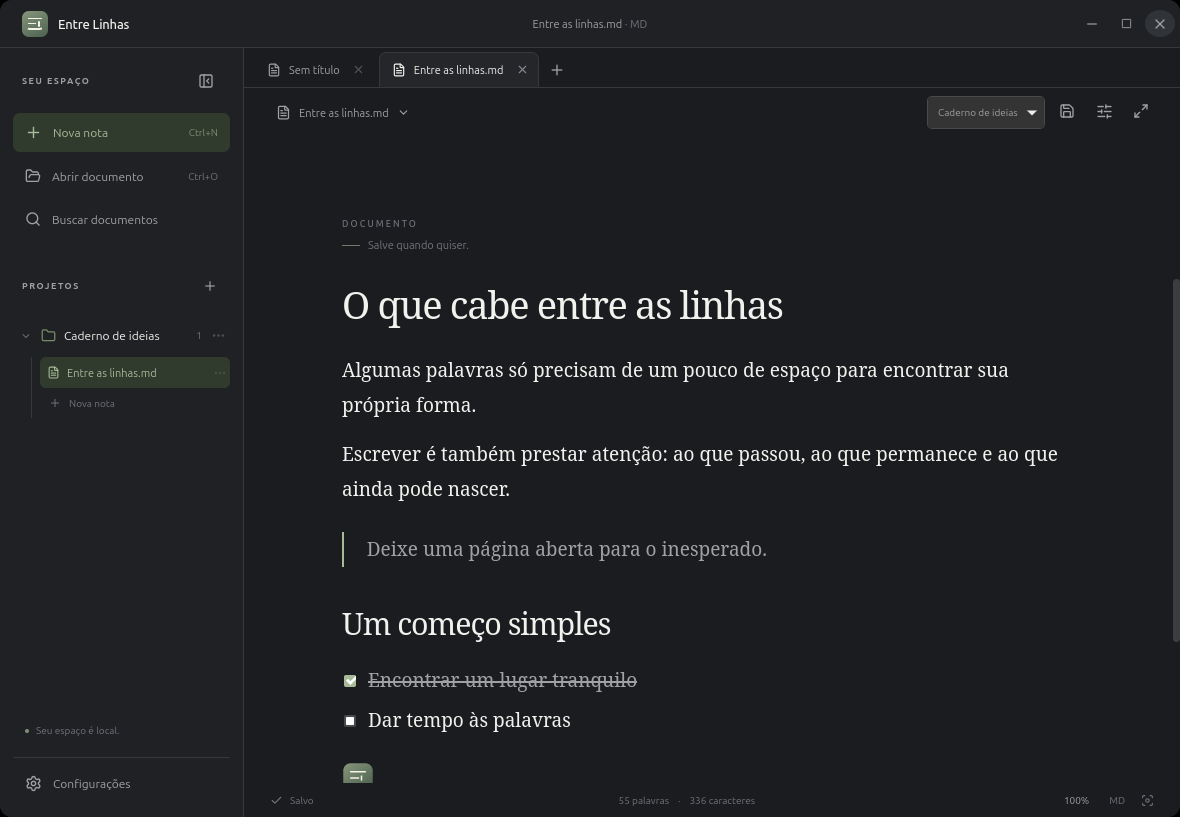
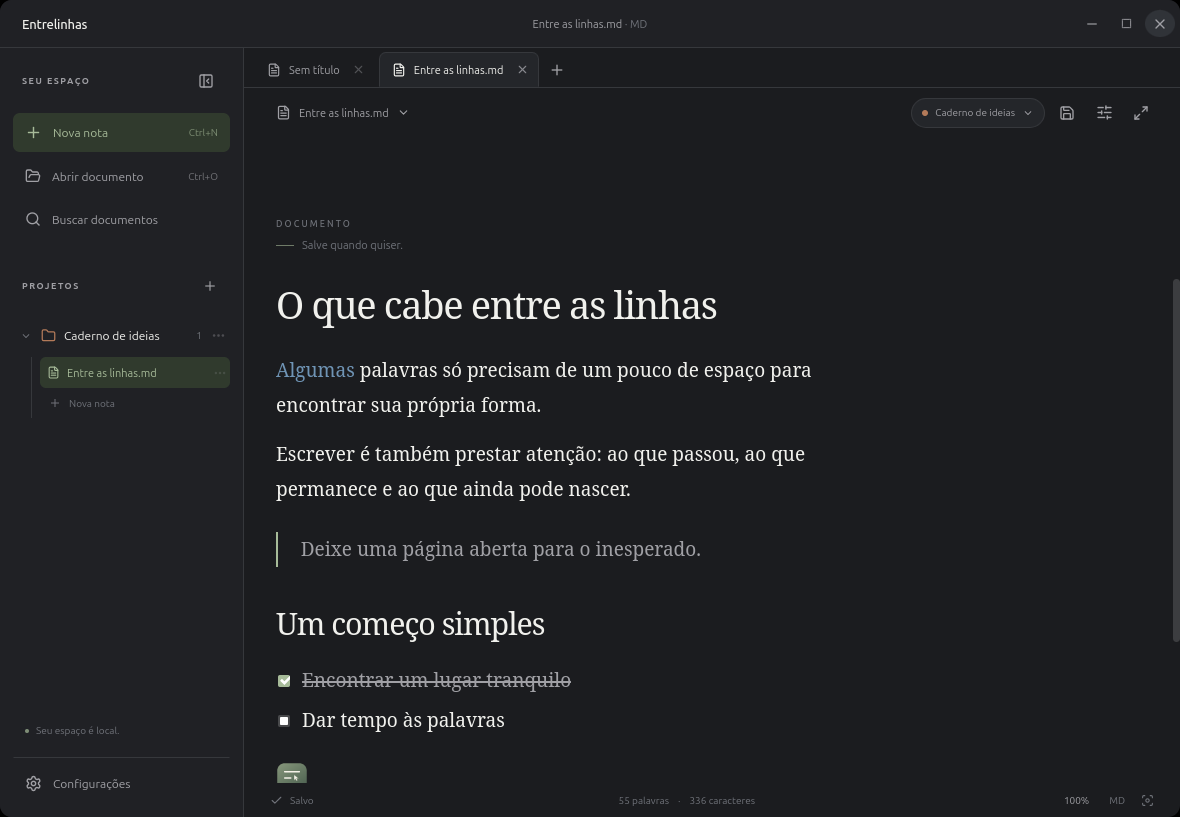
u13 - versão 0.2.0

diff --git a/src/components/Settings.tsx b/src/components/Settings.tsx
@@ -1,3 +1,4 @@
+import { version } from '../../package.json'
 import { useState } from 'react'
 import {
   Paintbrush,
@@ -103,6 +104,10 @@ export function Settings({
                   <option value="right">Lateral direita</option>
                 </select>
               </label>
+              <p className="muted small">
+                Em janelas estreitas, as abas laterais voltam ao topo para preservar o espaço de
+                escrita.
+              </p>
             </>
           )}
           {section === 'editor' && (
@@ -343,7 +348,7 @@ export function Settings({
               <AppIcon />
               <h3>Entrelinhas</h3>
               <p>Um espaço tranquilo para escrever.</p>
-              <span className="version-pill">Versão 0.1.0</span>
+              <span className="version-pill">Versão {version}</span>
               <p className="muted">
                 Feito com Tauri, React e cuidado.
                 <br />

diff --git a/src/styles.css b/src/styles.css
@@ -1903,3 +1903,13 @@ body,
   font-size: 11px;
   line-height: 1.7;
 }
+/* O foco pertence ao campo completo, sem um segundo contorno dentro dele. */
+.project-filter input:focus-visible,
+.color-hex-field input:focus-visible {
+  outline: none;
+}
+.project-filter:focus-within,
+.color-hex-field:focus-within {
+  border-color: var(--accent);
+  box-shadow: 0 0 0 2px color-mix(in srgb, var(--accent) 14%, transparent);
+}

diff --git a/README.md b/README.md
@@ -14,9 +14,11 @@ Entrelinhas é um editor **desktop de verdade**, feito com Tauri 2, React e Type
 - Projetos lógicos com nome, cor, ícone opcional e referências a documentos externos.
 - Abas reordenáveis; conteúdo, seleção e histórico de edição mantidos ao alternar entre elas.
 - Interface imersiva automática, alternância manual, acesso por Esc e aproximação das bordas.
-- Três temas: Claro, Escuro e Sépia Noturno.
+- Três temas: Claro, Escuro e Sépia Noturno, com escolha na primeira abertura e respeito às preferências de instalações anteriores.
+- Coluna de escrita centralizada na janela inteira, com limite de largura e posição estável ao esconder os controles.
+- Seletores de projeto e de cor próprios, com o tema do aplicativo e fundo desfocado.
 - Cursor em bloco, fino ou invisível; fonte, tamanho, largura, zoom e entrelinha configuráveis.
-- Navegação à esquerda ou à direita, redimensionável; abas superiores ou laterais.
+- Navegação à esquerda ou à direita, redimensionável; abas superiores ou laterais. Em janelas estreitas, as abas voltam ao topo para manter uma coluna confortável.
 - Busca e substituição no documento; busca por nome e conteúdo nos arquivos salvos registrados.
 - Funcionamento local e offline, sem conta, servidor ou sincronização obrigatória.
 
@@ -58,7 +60,7 @@ As capturas abaixo são da janela Tauri real, executada no Ubuntu 26.10 com Wayl
 | ------------------------------------ | ------------------------------------ | -------------------------------------------- |
 | ![Claro](docs/screenshots/light.png) | ![Escuro](docs/screenshots/dark.png) | ![Sépia Noturno](docs/screenshots/sepia.png) |
 
-[Ver o modo imersivo](docs/screenshots/imersivo.png).
+[Ver o modo imersivo](docs/screenshots/imersivo.png) · [Escolha inicial de tema](docs/screenshots/welcome.png) · [Seletor de cores no Sépia Noturno](docs/screenshots/color-sepia.png) · [Seleção de projeto](docs/screenshots/project-picker.png).
 
 Os seletores nativos acompanham o modo claro ou escuro do aplicativo; Sépia Noturno usa a variante escura do GTK.
 
@@ -70,12 +72,12 @@ O projeto foi compilado e verificado no **Ubuntu 26.10, x86_64, GNOME/Wayland**.
 
 ### Pacote Debian
 
-[Baixe o instalador e os checksums da versão 0.1.0](https://github.com/Bit-Devy/entrelinhas/releases/tag/v0.1.0).
+[Baixe o instalador e os checksums da versão 0.2.0](https://github.com/Bit-Devy/entrelinhas/releases/tag/v0.2.0).
 
 Para instalar um pacote compilado localmente:
 
 ```bash
-sudo apt install ./src-tauri/target/release/bundle/deb/*.deb
+sudo apt install ./src-tauri/target/release/bundle/deb/Entrelinhas_0.2.0_amd64.deb
 ```
 
 O aplicativo aparece no menu como **Entrelinhas**, com ícone próprio. O pacote depende do WebKitGTK 4.1 e GTK 3 do sistema. Uma compilação feita no Ubuntu 26.10 não garante compatibilidade binária com versões anteriores do Ubuntu; para elas, compile no sistema de destino.
@@ -154,9 +156,9 @@ python3 scripts/test-desktop.py --binary src-tauri/target/release/entrelinhas
 
 ### Verificações realizadas
 
-- **20 testes TypeScript:** notas, abas, descarte, preferências, atalhos, Markdown, formatação, TXT, Unicode, busca, imagens, gravação explícita, conflitos e espera de gravações em andamento.
+- **46 testes TypeScript:** notas, abas, descarte, preferências, atalhos, Markdown, formatação, TXT, Unicode, busca, imagens, gravação explícita, conflitos, espera de gravações, centralização com diferentes painéis, seletores próprios e primeira escolha de tema.
 - **6 testes Rust:** gravação atômica, conflitos, UTF-8, nomes internacionais, imagens relativas, arquivos somente leitura, recursos inválidos, projetos em Downloads, exclusão sem apagar documentos, localização e busca.
-- **16 verificações desktop:** inicialização, ocultação sem deslocamento, Esc, descarte após reiniciar, Ctrl+S com seletor GNOME, associação externa, abas, busca/substituição, colagem de imagens, temas, cursores, persistência, layout, F11, conflitos, busca global, confirmação opcional e TXT.
+- **20 verificações desktop:** inicialização, ocultação sem deslocamento, Esc, descarte após reiniciar, Ctrl+S com seletor GNOME, associação externa, abas, busca/substituição, colagem de imagens, temas, cursores, persistência, layout, F11, conflitos, busca global, confirmação opcional, TXT, paleta de cores nos três temas, primeira abertura e centralização ao redimensionar.
 - O roteiro desktop também passou no **executável otimizado de produção, com o Vite desligado**.
 - Documento de **280 mil caracteres** carregado e editado no roteiro desktop. O tempo medido inclui definir o conteúdo e inserir texto; não representa um benchmark de latência por tecla.
 
